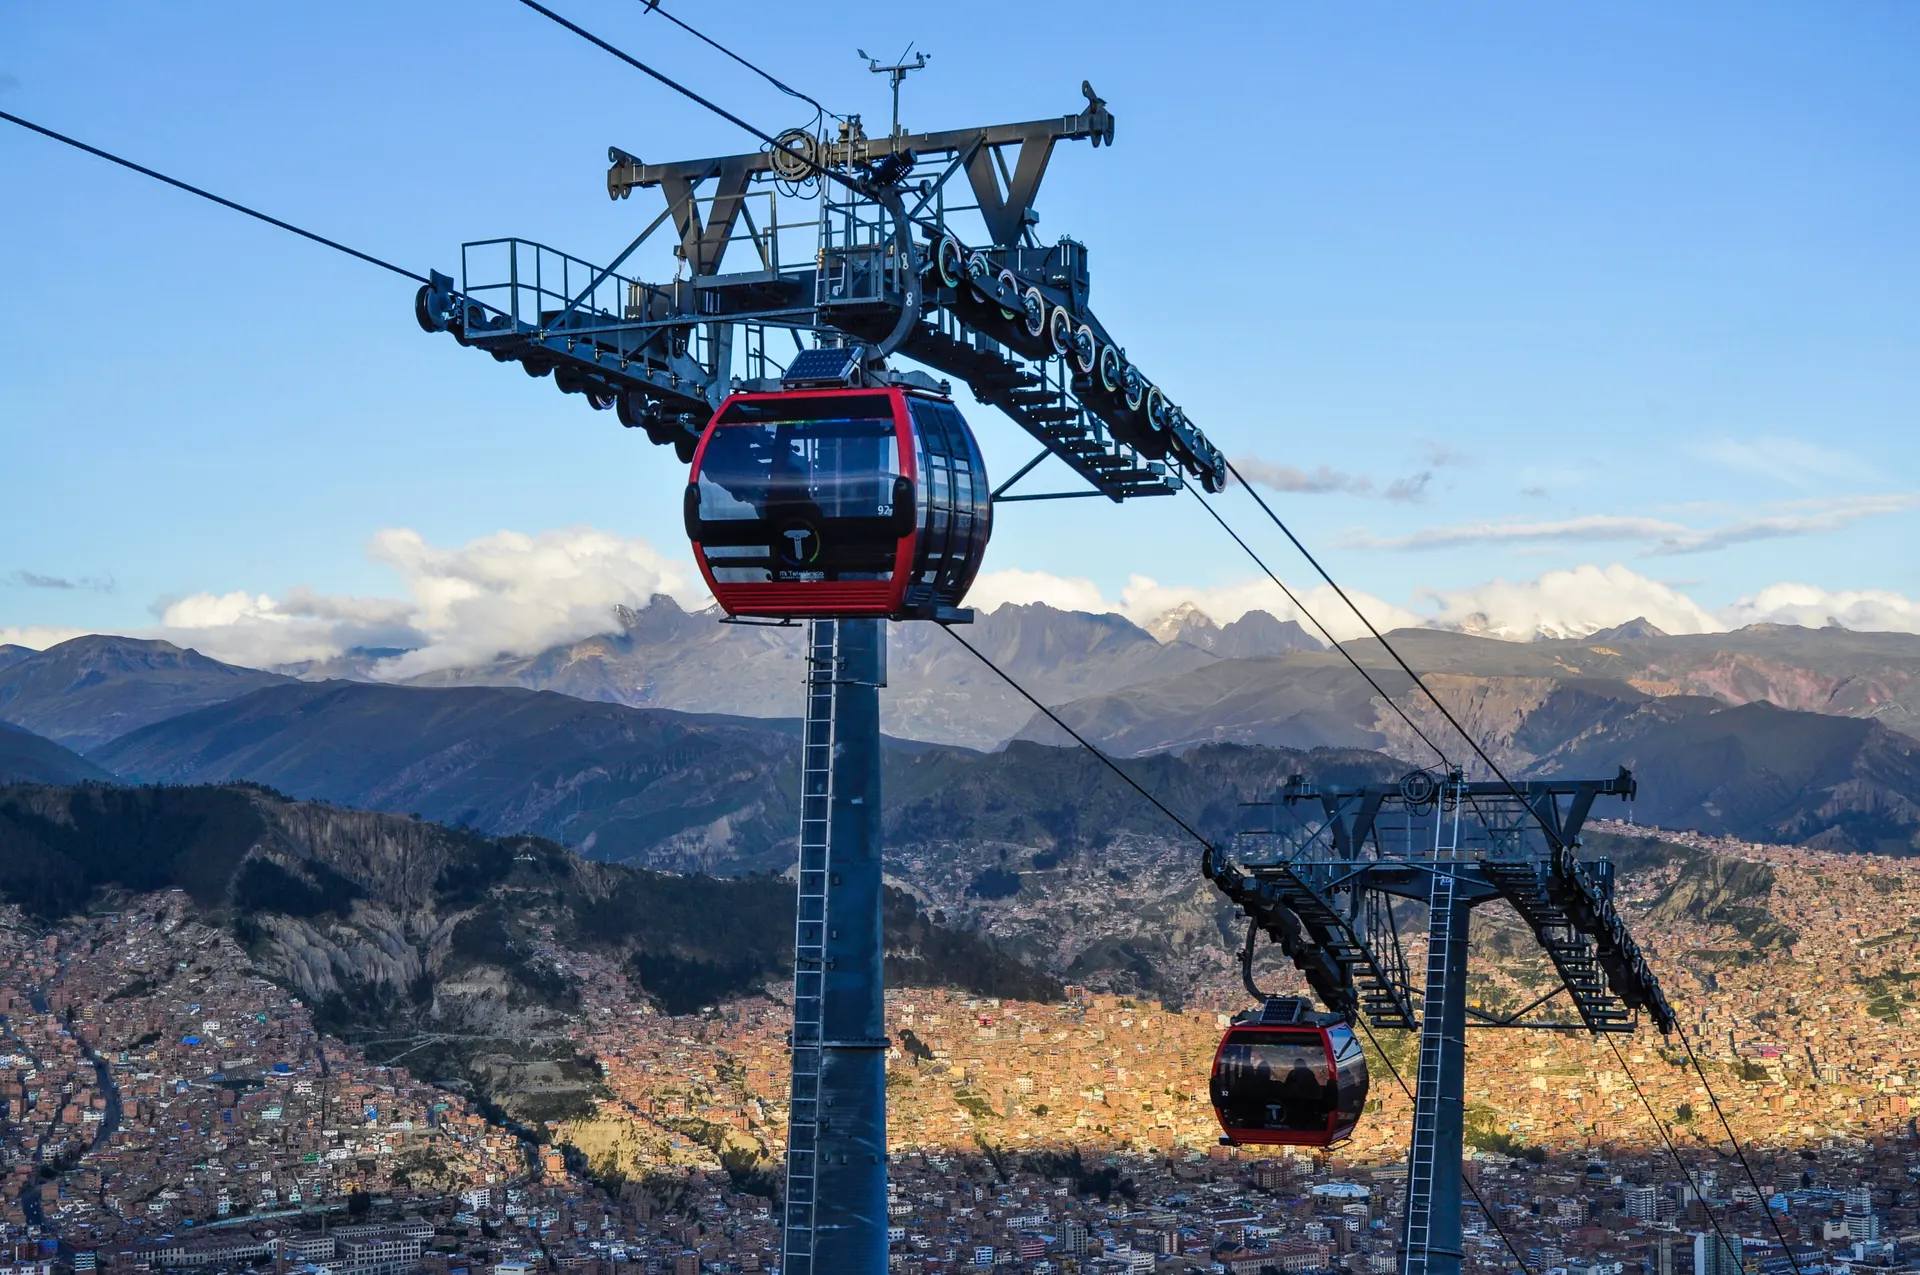
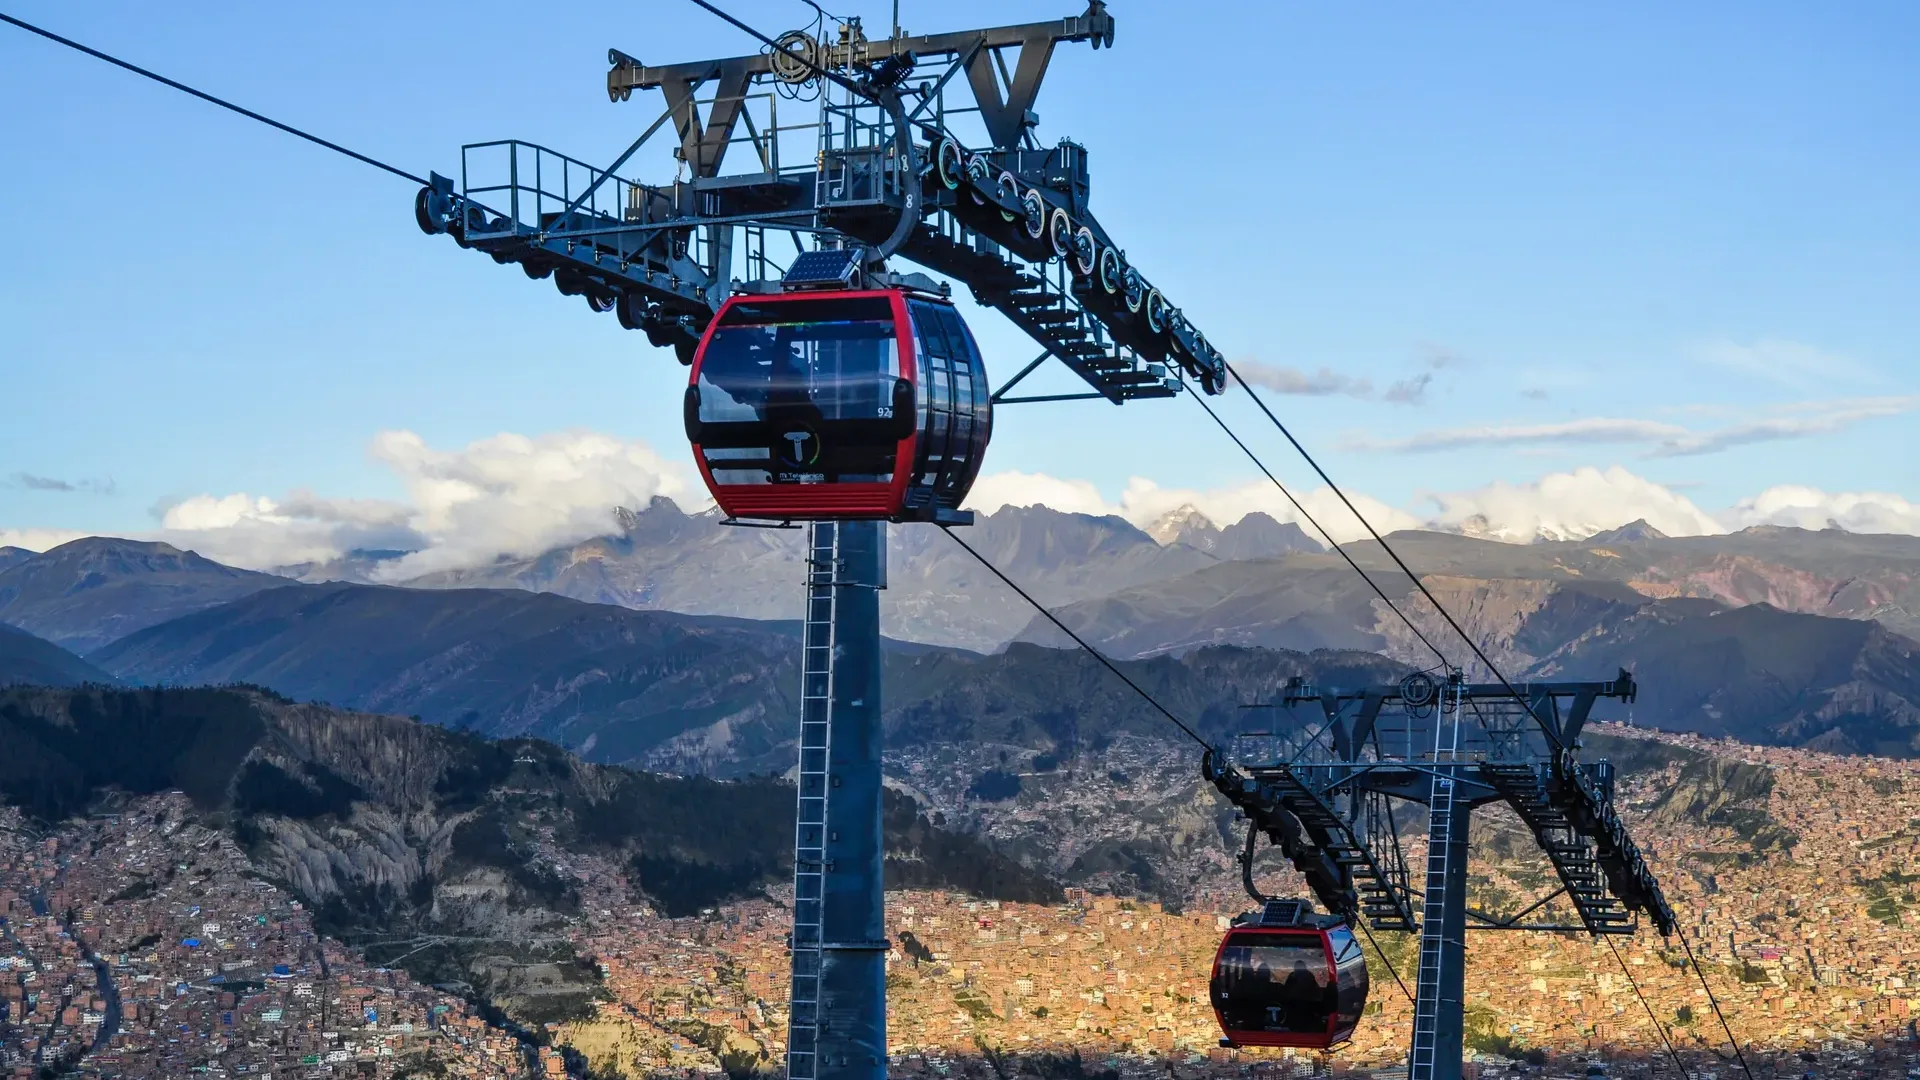
Insights index and Bolivia guide: line up with the others
- /insights: every card's summary now opens with its headline figure in
  US dollars and the source currency by name (Peru, Chile and Argentina
  read differently); 阅读全文 sits at the foot of every card, so each row
  ends on one line.
- Bolivia's hero cropped to 16:9 like the other nine.
- Bolivia SICOES guide: its guarantee step had no free icon, so the whole
  flow fell back to numbers; it now carries icons like every other guide.

Claude-Session: https://claude.ai/code/session_019Gp2abYvPQ4sZBFHCBQ6Sq

diff --git a/lib/country-insights.ts b/lib/country-insights.ts
@@ -32,7 +32,7 @@ export const countryInsights: CountryInsightSummary[] = [
     countryCode: "MX",
     title: "墨西哥国家洞察：2026—2030战略投资与项目机会",
     description:
-      "从约3,252亿美元（5.6万亿比索）基础设施投资基准出发，拆解能源、铁路、公路、港口、水务、ICT与医疗等重点行业，以及区域分布和中国企业可参与空间。",
+      "从约3,252亿美元（5.6万亿墨西哥比索）基础设施投资基准出发，拆解能源、铁路、公路、港口、水务、ICT与医疗等重点行业，以及区域分布和中国企业可参与空间。",
     author: "拉美招投标指南针",
     readTime: "约 15 分钟",
     heroImage: "/insights/mexico-el-insurgente.webp",
@@ -89,7 +89,7 @@ export const countryInsights: CountryInsightSummary[] = [
     countryCode: "PE",
     title: "秘鲁国家洞察：2024—2030竞争力规划与物流走廊机会",
     description:
-      "从2024—2030竞争力规划、2032物流走廊和2026项目组合出发，梳理交通、矿业、能源、水务与社会基础设施的区域机会。",
+      "从约765.2亿美元（2,575.62亿秘鲁索尔）2026公共预算、2024—2030竞争力规划和2032物流走廊出发，梳理交通、矿业、能源、水务与社会基础设施的区域机会。",
     author: "拉美招投标指南针",
     readTime: "约 17 分钟",
     heroImage: "/insights/peru-southern-railway.webp",
@@ -108,7 +108,7 @@ export const countryInsights: CountryInsightSummary[] = [
     countryCode: "CL",
     title: "智利国家洞察：2025—2055基础设施规划与近期项目机会",
     description:
-      "区分智利2025—2055国家基础设施规划、矿业投资储备与已经进入采购的项目，梳理能源、交通、水务、矿业和数字基础设施机会。",
+      "从约4,318亿美元（417万亿智利比索）2025—2055国家基础设施规划出发，区分矿业投资储备与已经进入采购的项目，梳理能源、交通、水务、矿业和数字基础设施机会。",
     author: "拉美招投标指南针",
     readTime: "约 14 分钟",
     heroImage: "/insights/chile-cerro-dominador.webp",
@@ -127,7 +127,7 @@ export const countryInsights: CountryInsightSummary[] = [
     countryCode: "AR",
     title: "阿根廷国家洞察：2026—2028公共投资与长期战略项目机会",
     description:
-      "梳理阿根廷国家公共投资计划2026—2028约63.3亿美元（9.53万亿比索）的三年列示投资、1,164个公共投资项目，以及大型投资激励制度、交通和能源长期项目管线。",
+      "从国家公共投资计划2026—2028约63.3亿美元（9.53万亿阿根廷比索）三年列示投资与1,164个公共投资项目出发，梳理大型投资激励制度、交通和能源长期项目管线。",
     author: "拉美招投标指南针",
     readTime: "约 16 分钟",
     heroImage: "/insights/argentina-yacyreta.webp",
@@ -209,7 +209,7 @@ export const countryInsights: CountryInsightSummary[] = [
     heroImage: "/insights/bolivia-mi-teleferico.webp",
     heroImageAlt: "玻利维亚拉巴斯城市缆车（Mi Teleférico）红线的吊舱与塔架，背景为拉巴斯谷地",
     heroImageCredit: {
-      author: "EEJCC（经缩放并压缩为 WebP）",
+      author: "EEJCC（经裁切并压缩为 WebP）",
       license: "CC BY-SA 4.0",
       licenseUrl: "https://creativecommons.org/licenses/by-sa/4.0/",
       sourceUrl: "https://commons.wikimedia.org/wiki/File:L%C3%ADnea_Roja_de_Mi_Telef%C3%A9rico_en_La_Paz,_Bolivia.jpg",

diff --git a/app/insights/page.tsx b/app/insights/page.tsx
@@ -39,7 +39,7 @@ export default function CountryInsightsPage() {
         <div className="grid gap-7 lg:grid-cols-2">
           {countryInsights.map((insight) => (
             <article key={insight.slug} className="group overflow-hidden rounded-3xl border border-[#dbe2e5] bg-[#fffdf9] shadow-[0_18px_50px_rgba(7,24,38,0.06)]">
-              <Link href={`/insights/${insight.slug}`} className="block">
+              <Link href={`/insights/${insight.slug}`} className="flex h-full flex-col">
                 <div className="relative aspect-[16/9] overflow-hidden bg-[#061b2b]">
                   <Image
                     src={insight.heroImage}
@@ -52,7 +52,7 @@ export default function CountryInsightsPage() {
                   <div className="absolute inset-0 bg-gradient-to-t from-[#061b2b]/75 via-transparent to-transparent" />
                   <span className="absolute bottom-5 left-5 rounded-full bg-[#ffb21c] px-3 py-1 text-xs font-black text-[#071826]">{insight.country}</span>
                 </div>
-                <div className="p-6 sm:p-8">
+                <div className="flex flex-1 flex-col p-6 sm:p-8">
                   <div className="flex flex-wrap items-center gap-x-4 gap-y-2 text-xs font-bold text-[#7b878e]">
                     <span>作者：{insight.author}</span>
                   </div>
@@ -63,7 +63,7 @@ export default function CountryInsightsPage() {
                       <span key={highlight} className="rounded-full bg-[#edf2f4] px-3 py-1.5 text-xs font-bold text-[#38505e]">{highlight}</span>
                     ))}
                   </div>
-                  <p className="mt-8 font-black text-[#a96a00] transition-transform group-hover:translate-x-1">阅读全文 →</p>
+                  <p className="mt-auto pt-8 font-black text-[#a96a00] transition-transform group-hover:translate-x-1">阅读全文 →</p>
                 </div>
               </Link>
             </article>

diff --git a/lib/participation-guides.ts b/lib/participation-guides.ts
@@ -1714,7 +1714,7 @@ export const participationGuides: ParticipationGuide[] = [
           { title: "查找项目", detail: "由用户自己在SICOES按编号、采购单位和采购方式查找项目。" },
           { title: "读取文件", detail: "下载招标文件和补充文件，核对外国企业资格、采购方式和完整日程。" },
           { title: "登记RUPE", detail: "在RUPE完成供应商登记；电子投标通过RUPE提交，境外资料需提供同等效力的文件。" },
-          { title: "准备担保", detail: "按文件准备投标保证（常见为参考价的1%）；外国企业的担保开具方式见下文。" },
+          { title: "准备担保", icon: "finance", detail: "按文件准备投标保证（常见为参考价的1%）；外国企业的担保开具方式见下文。" },
           { title: "递交跟进", detail: "按日程递交技术与经济文件，跟进答疑、补正、评审和授标，按时准备合同。" },
         ],
       },
